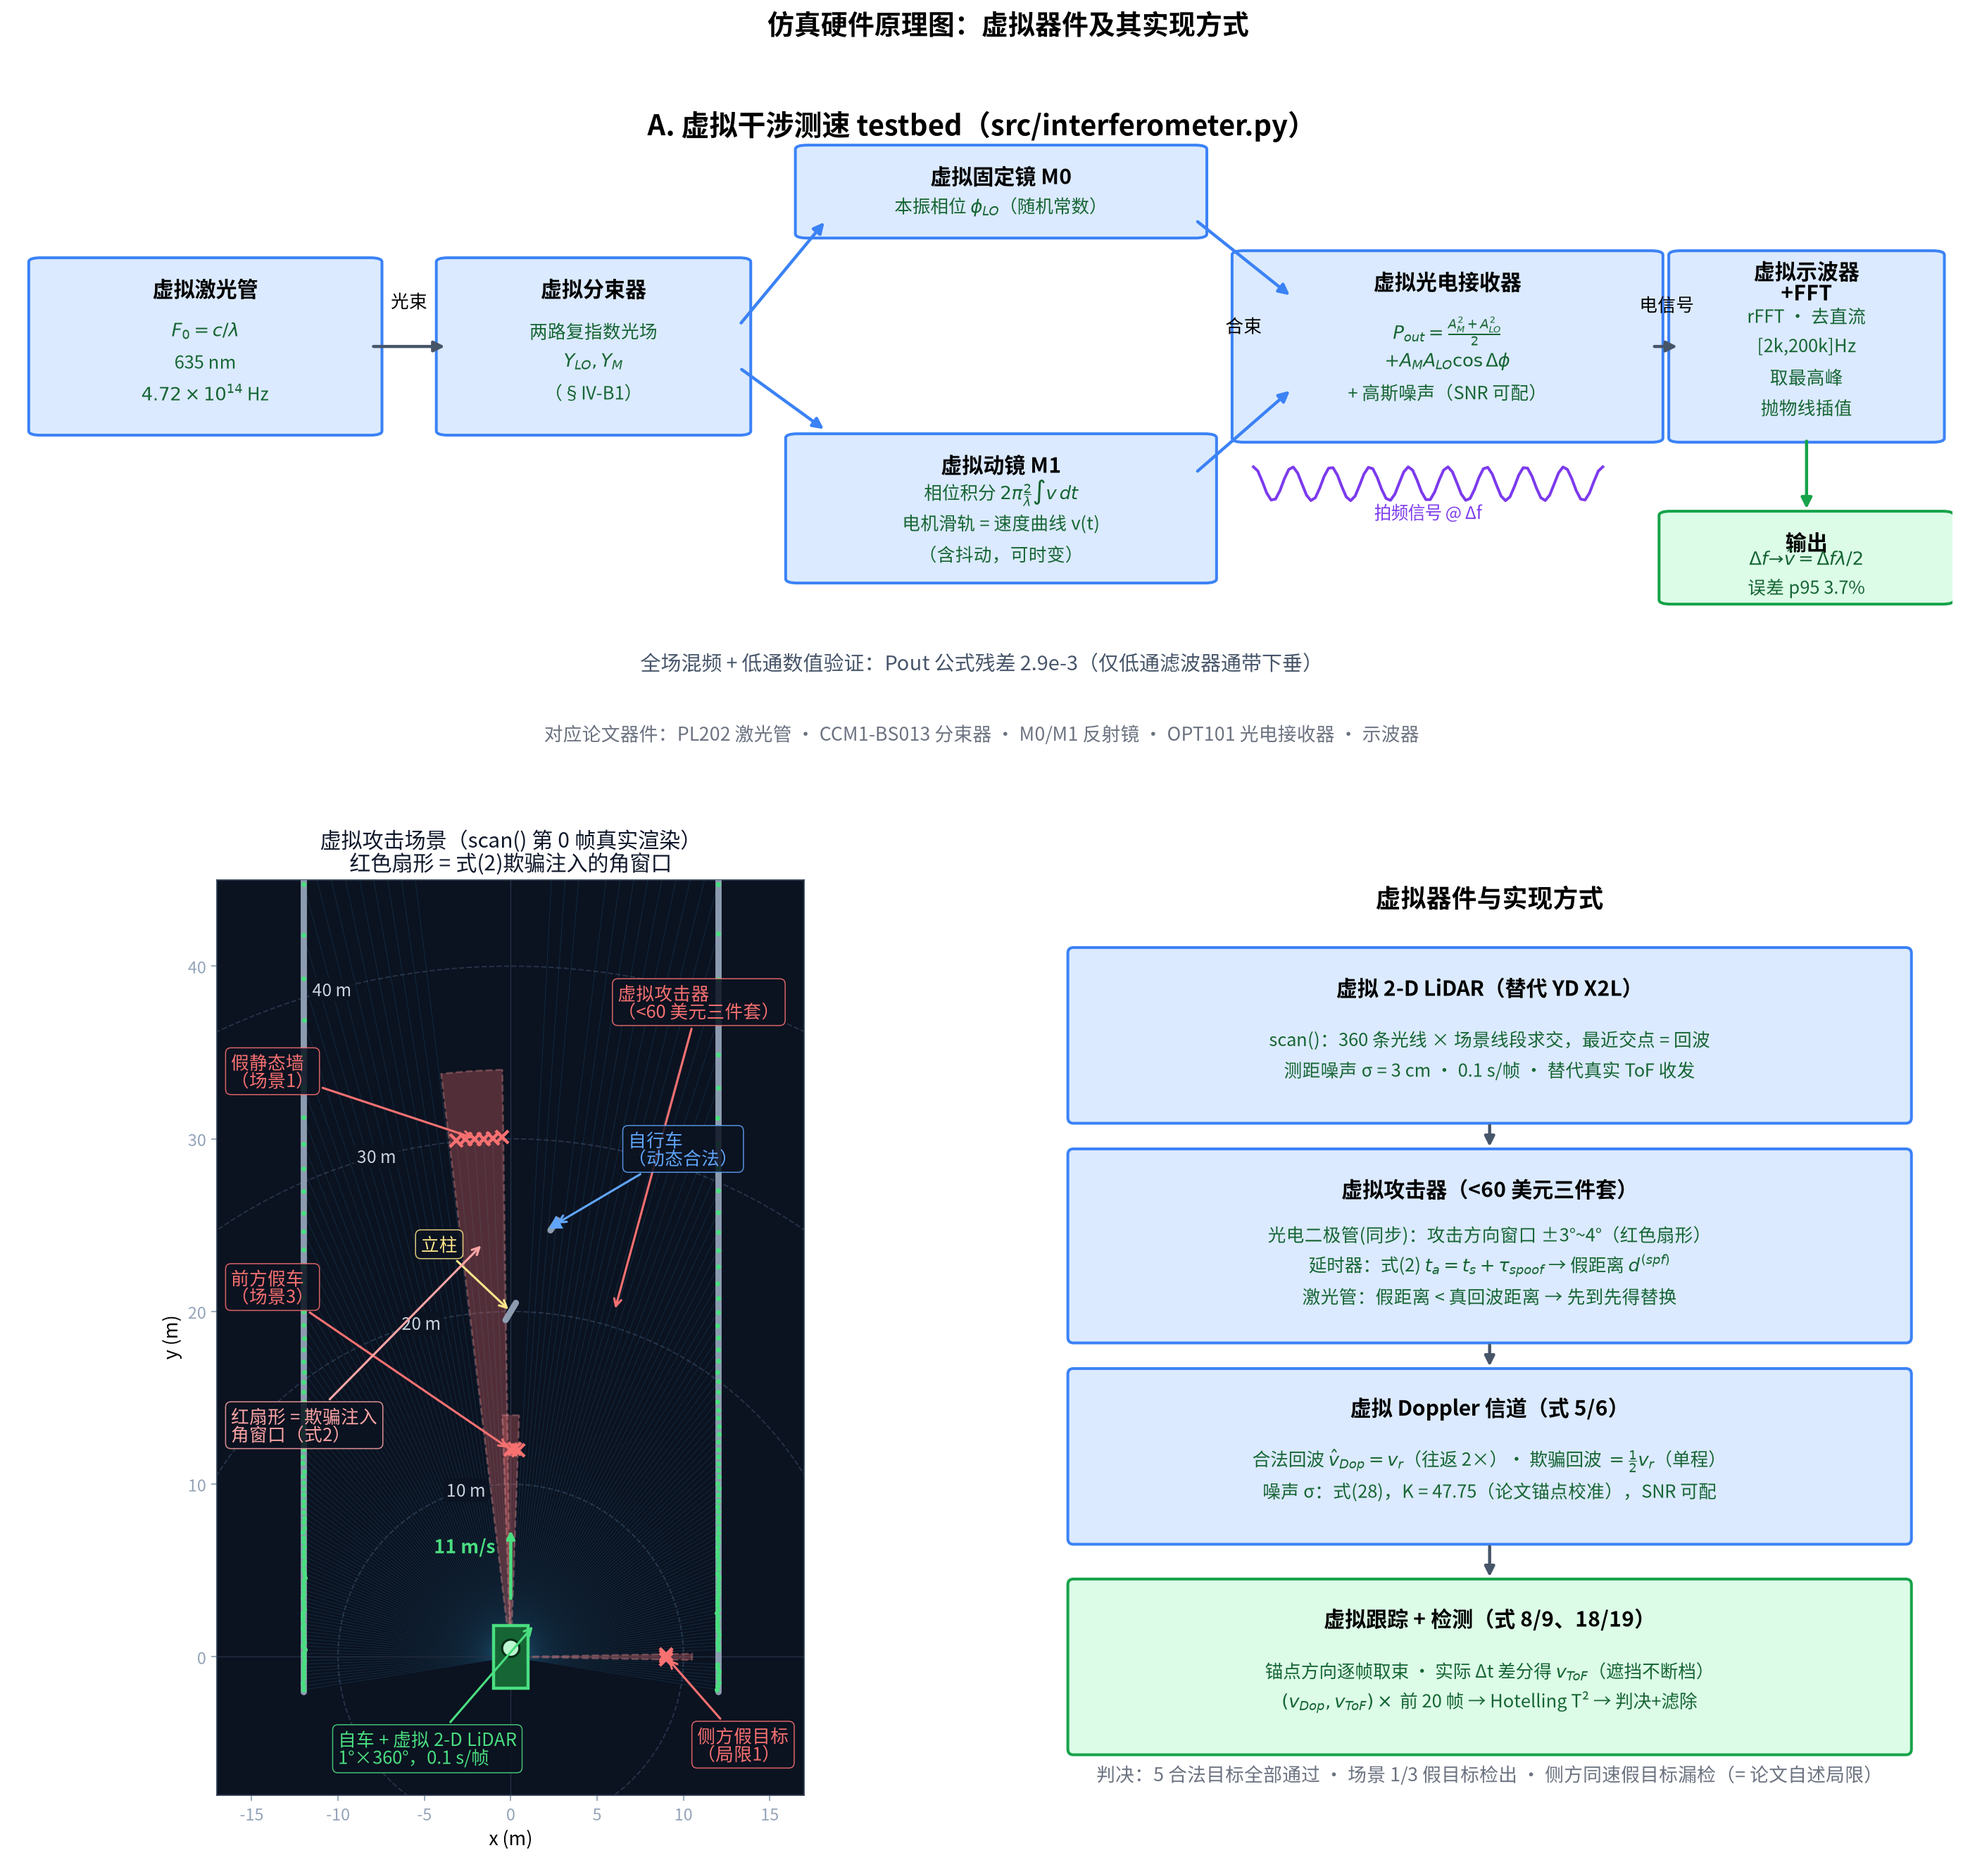
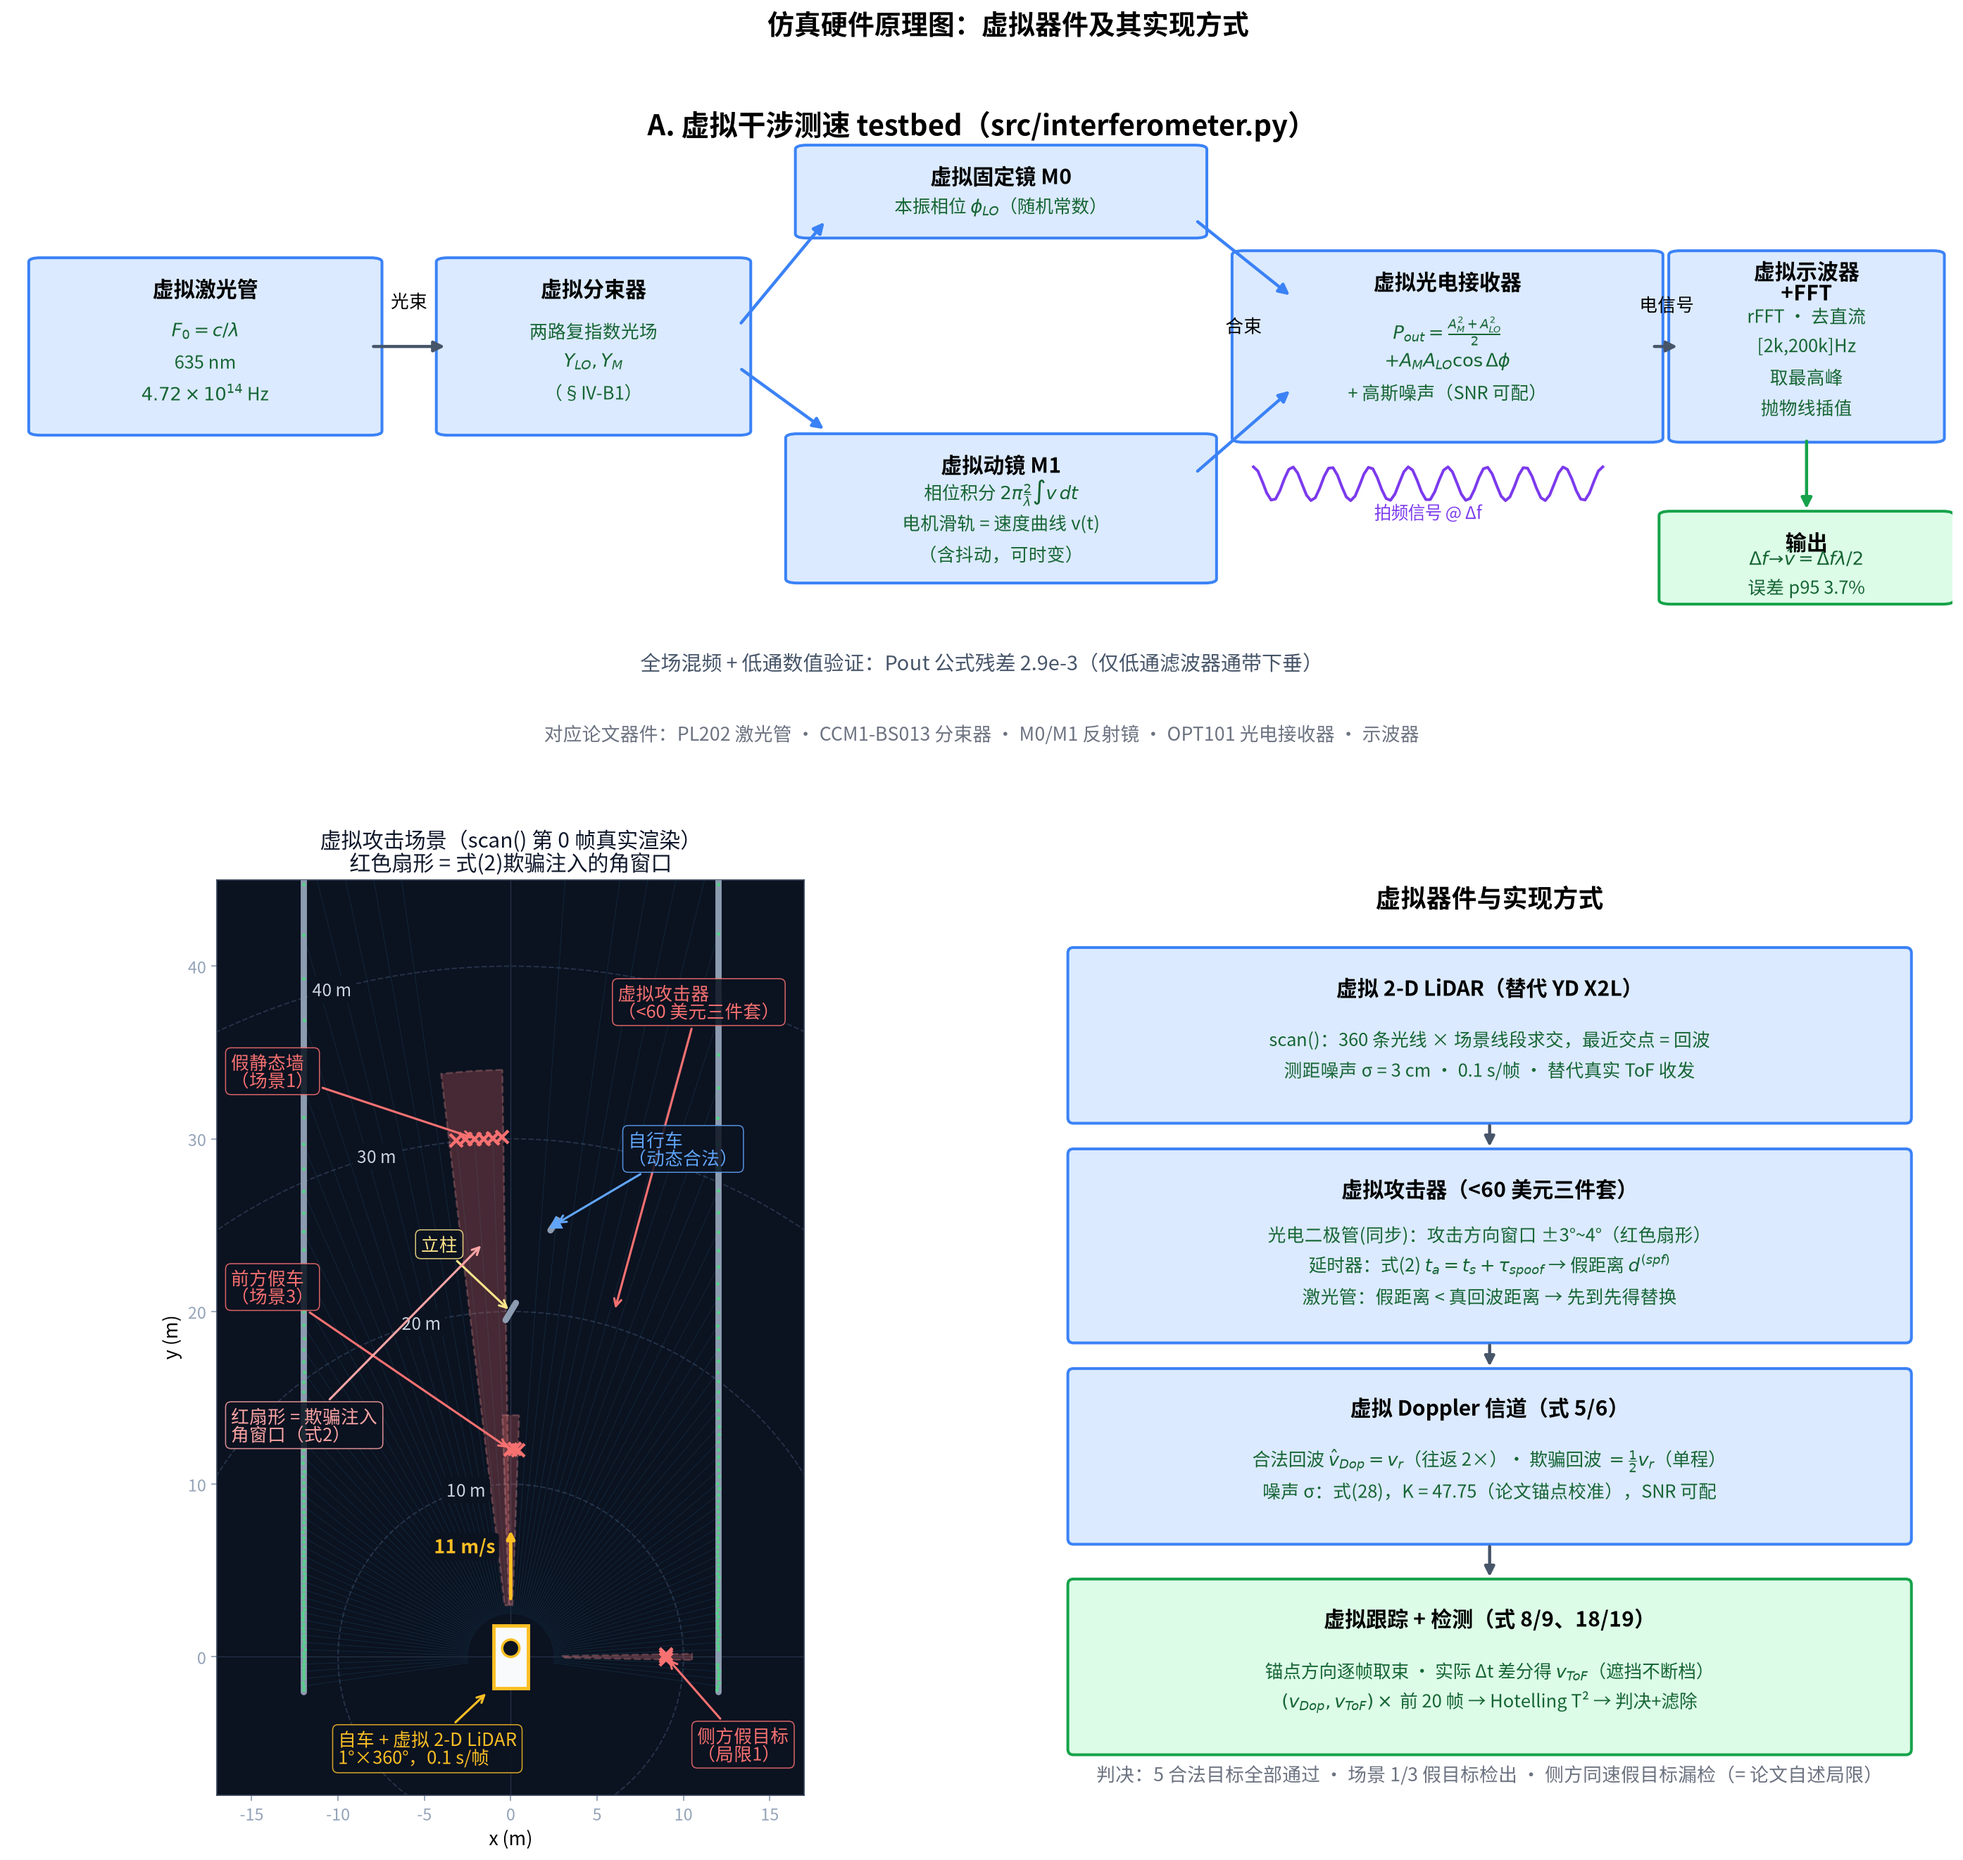
Deep-clean attack-scene figure (quadrant-level inspection fixes)
Issues found by zoomed quadrant inspection and fixed:
- beam fan: draw every 2nd beam starting 2.5 m away from the car (was
  360 dense rays converging on the vehicle = gray curtain)
- ego car recolored white body + amber edge (was green, confused with
  the green wall point-cloud bars); velocity arrow/label amber too,
  label with dark backing
- injection wedges now annular (start 3 m from car) so they no longer
  look like bands growing out of the vehicle
- legit points smaller (ms 2.2, alpha .85) -> clearly discrete dots
- ring labels with near-opaque backing; ego-note leader ends at the
  car's outer corner
- closed-loop figure: same ego styling; README image URLs bumped to
  ?v=8 (camo cache bust)

Changed region(s): [[0.156, 0.807, 0.3121, 0.9621]]

diff --git a/src/hw_mapping.py b/src/hw_mapping.py
@@ -214,10 +214,10 @@ def _draw_car(ax, x, y, heading_deg=90.0):
     from matplotlib.patches import Rectangle, Circle
     import matplotlib.transforms as mtransforms
     tr = mtransforms.Affine2D().rotate_deg(heading_deg - 90).translate(x, y) + ax.transData
-    body = Rectangle((-1.0, -1.8), 2.0, 3.6, fc="#166534", ec="#4ade80",
-                     lw=2.0, transform=tr, zorder=6)
+    body = Rectangle((-1.0, -1.8), 2.0, 3.6, fc="#f8fafc", ec="#fbbf24",
+                     lw=2.2, transform=tr, zorder=6)
     ax.add_patch(body)
-    lidar = Circle((0, 0.5), 0.5, fc="#bbf7d0", ec="#052e16", lw=1.4,
+    lidar = Circle((0, 0.5), 0.5, fc="#0b1220", ec="#fbbf24", lw=1.6,
                    transform=tr, zorder=7)
     ax.add_patch(lidar)
 
@@ -245,8 +245,8 @@ def _draw_virtual_scene(ax_scene):
         ax_scene.text(r * np.cos(np.deg2rad(105)), r * np.sin(np.deg2rad(105)),
                       f"{r} m", fontsize=11, color="#cbd5e1", ha="center",
                       va="center", zorder=9,
-                      bbox=dict(boxstyle="round,pad=0.18", fc=SC_BG,
-                                ec="none", alpha=0.75))
+                      bbox=dict(boxstyle="round,pad=0.25", fc=SC_BG,
+                                ec="none", alpha=0.95))
     ax_scene.axhline(0, color=SC_GRID, lw=0.6)
     ax_scene.axvline(0, color=SC_GRID, lw=0.6)
 
@@ -260,14 +260,16 @@ def _draw_virtual_scene(ax_scene):
     for deg, (d, label, spf, _) in frame.items():
         th = np.deg2rad(deg)
         x, y = d * np.cos(th), d * np.sin(th)
-        ax_scene.plot([0, x], [0, y], color=SC_BEAM, lw=0.45, alpha=0.14,
-                      zorder=1)
+        if deg % 2 == 0:                # 每 2° 画一条光束，减密
+            x0, y0 = 2.5 * np.cos(th), 2.5 * np.sin(th)   # 距车 2.5m 起笔
+            ax_scene.plot([x0, x], [y0, y],
+                          color=SC_BEAM, lw=0.45, alpha=0.12, zorder=1)
         if spf:
             ax_scene.plot(x, y, "x", color=SC_SPOOF, ms=8, mew=2, zorder=5)
         elif label == "bike":
             ax_scene.plot(x, y, "^", color=SC_BIKE, ms=7, zorder=5)
         else:
-            ax_scene.plot(x, y, "o", color=SC_LEGIT, ms=3.2,
+            ax_scene.plot(x, y, "o", color=SC_LEGIT, ms=2.2, alpha=0.85,
                           markeredgecolor="none", zorder=4)
 
     # 三类欺骗注入的攻击窗口扇形（红色）
@@ -281,15 +283,17 @@ def _draw_virtual_scene(ax_scene):
     ]
     for center_deg, halfw, r, lab in wedges:
         w = Wedge((0, 0), r, center_deg - halfw, center_deg + halfw,
-                  fc=SC_SPOOF, alpha=0.30, ec="#fca5a5", lw=1.2, ls="--", zorder=2)
+                  width=r - 3.0,   # 环形：距车 3m 起，避免与车身粘连
+                  fc=SC_SPOOF, alpha=0.25, ec="#fca5a5", lw=1.2, ls="--", zorder=2)
         ax_scene.add_patch(w)
 
     # 自车（车形 + LiDAR + 速度矢量）
     _draw_car(ax_scene, 0, 0)
     ax_scene.annotate("", xy=(0, 7.5), xytext=(0, 3.2),
-                      arrowprops=dict(arrowstyle="-|>", color="#4ade80", lw=2))
-    ax_scene.text(-0.9, 6.0, "11 m/s", fontsize=12, color="#4ade80",
-                  weight="bold", ha="right", zorder=9)
+                      arrowprops=dict(arrowstyle="-|>", color="#fbbf24", lw=2.2))
+    ax_scene.text(-0.9, 6.0, "11 m/s", fontsize=12, color="#fbbf24",
+                  weight="bold", ha="right", zorder=9,
+                  bbox=dict(boxstyle="round,pad=0.2", fc=SC_BG, ec="none"))
 
     # 标注
     def note(text, xy, xytext, color):
@@ -299,8 +303,8 @@ def _draw_virtual_scene(ax_scene):
                           bbox=dict(boxstyle="round,pad=0.3", fc=SC_BG,
                                     ec=color, lw=0.7, alpha=0.85))
 
-    note("自车 + 虚拟 2-D LiDAR\n1°×360°，0.1 s/帧", (1.4, 1.9), (-10, -6.2),
-         "#4ade80")
+    note("自车 + 虚拟 2-D LiDAR\n1°×360°，0.1 s/帧", (-1.3, -2.0), (-10, -6.2),
+         "#fbbf24")
     note("虚拟攻击器\n（<60 美元三件套）",
          tuple(attacks["ahead"]["attacker"]), (6.2, 37), "#f87171")
     note("假静态墙\n（场景1）", tuple(attacks["static"]["pos"]), (-16.2, 33),

diff --git a/src/simulator.py b/src/simulator.py
@@ -268,7 +268,7 @@ def plot_closed_loop(results, scans, out_path, scan_idx=10):
             elif label == "bike":
                 ax.plot(x, y, "^", color=BIKE, ms=7)
             else:
-                ax.plot(x, y, "o", color=LEGIT, ms=3.4,
+                ax.plot(x, y, "o", color=LEGIT, ms=2.6, alpha=0.85,
                         markeredgecolor="none")
         if filtered:
             miss_xy = (ego_xy[0] + 9.0, ego_xy[1])
@@ -282,10 +282,10 @@ def plot_closed_loop(results, scans, out_path, scan_idx=10):
         tr = (mtransforms.Affine2D().rotate_deg(0).translate(*ego_xy)
               + ax.transData)
         ax.add_patch(Rectangle((ego_xy[0] - 1.0, ego_xy[1] - 1.8), 2.0, 3.6,
-                               fc="#166534", ec=LEGIT, lw=2, transform=tr,
+                               fc="#f8fafc", ec="#fbbf24", lw=2.2, transform=tr,
                                zorder=6))
-        ax.add_patch(Circle((ego_xy[0], ego_xy[1] + 0.5), 0.5, fc="#bbf7d0",
-                            ec="#052e16", lw=1.4, zorder=7))
+        ax.add_patch(Circle((ego_xy[0], ego_xy[1] + 0.5), 0.5, fc="#0b1220",
+                            ec="#fbbf24", lw=1.6, zorder=7))
         ax.set_title(title, fontsize=14)
         ax.set_xlabel("x (m)", fontsize=12.5)
         ax.set_aspect("equal")
@@ -300,8 +300,8 @@ def plot_closed_loop(results, scans, out_path, scan_idx=10):
                    label="自行车（动态合法）"),
         plt.Line2D([], [], marker="o", ls="", color=LEGIT, ms=6,
                    label="合法静态点云"),
-        plt.Line2D([], [], marker="s", ls="", color="#4ade80", ms=10,
-                   markeredgecolor="#052e16", markeredgewidth=1.5,
+        plt.Line2D([], [], marker="s", ls="", color="#fbbf24", ms=10,
+                   markeredgecolor="#78350f", markeredgewidth=1.5,
                    label="自车 + LiDAR"),
     ]
     fig.legend(handles=handles, fontsize=12, loc="lower center", ncol=4,

diff --git a/README.md b/README.md
@@ -44,26 +44,26 @@ results are computer-simulation based (§VII-B), so this reproduction is faithfu
 
 面板 A —— 干涉 testbed（Fig.6/7）的映射：
 
-![HW-SW mapping: interferometer](figures/fig_map_interferometer.png?v=7)
+![HW-SW mapping: interferometer](figures/fig_map_interferometer.png?v=8)
 
 面板 B —— 实机攻击演示（Fig.2/3/4）的映射：
 
-![HW-SW mapping: attack demo](figures/fig_map_attack.png?v=7)
+![HW-SW mapping: attack demo](figures/fig_map_attack.png?v=8)
 
 **仿真硬件原理图**（虚拟器件 + 每个器件框内直接标注实现公式/函数）。拆为三张单图便于阅读；
 组合版 `figures/fig_virtual_testbed.png`、`figures/fig_hw_mapping.png` 适合放进汇报 PPT：
 
 ① 虚拟干涉 testbed 器件链（框内 = 实现公式）：
 
-![Virtual interferometer](figures/fig_virtual_interferometer.png?v=7)
+![Virtual interferometer](figures/fig_virtual_interferometer.png?v=8)
 
 ② 虚拟攻击场景（`scan()` 第 0 帧真实渲染：光束、点云、攻击器与三类假目标）：
 
-![Virtual attack scene](figures/fig_virtual_scene.png?v=7)
+![Virtual attack scene](figures/fig_virtual_scene.png?v=8)
 
 ③ 虚拟器件实现方式（LiDAR / 攻击器 / Doppler 信道 / 跟踪+检测）：
 
-![Virtual device implementations](figures/fig_virtual_impl.png?v=7)
+![Virtual device implementations](figures/fig_virtual_impl.png?v=8)
 
 器件级明细：
 
@@ -98,20 +98,20 @@ python3 run_all.py --quick   # 快速冒烟，约 40 秒
 同一攻击者速度在两个速度不同的 LiDAR 处诱导出不同的 Doppler 速度；当两 LiDAR 速度相同（子图 d）
 时差恒为 0——与论文结论一致：协同检测要求参与 LiDAR 速度不同。
 
-![Fig.11 reproduction](figures/fig11.png?v=7)
+![Fig.11 reproduction](figures/fig11.png?v=8)
 
 ### 2. Fig.13 — 最小样本量 vs 欺骗比例（SNR=1e-4）
 
 欺骗比例 p 越小，所需样本量越大，**p < 0.4 后急剧上升**（city：p=0.1 需 50 个样本，
 p≥0.6 仅需 4 个）——复现论文正文对该图的关键描述。
 
-![Fig.13 reproduction](figures/fig13.png?v=7)
+![Fig.13 reproduction](figures/fig13.png?v=8)
 
 ### 3. Fig.14 — 最小样本量 vs SNR（p=0.1，log-log）
 
 SNR 每降一个数量级，所需样本量约 ×10（city：51 → 477 → 4634），近似 n ∝ 1/SNR。
 
-![Fig.14 reproduction](figures/fig14.png?v=7)
+![Fig.14 reproduction](figures/fig14.png?v=8)
 
 ### 4. 与论文数值对照
 
@@ -140,7 +140,7 @@ SNR 每降一个数量级，所需样本量约 ×10（city：51 → 477 → 4634
 噪声用式(28)校准模型）→ 目标级跟踪配对 (v_Dop, v_ToF) → 用式(18)(19)的 T² 检测器逐目标判决
 → 滤除被判欺骗的轨迹。左图为攻击中点云（红色 × 为注入的假点），右图为检测滤除后：
 
-![Closed-loop simulation](figures/fig_closed_loop.png?v=7)
+![Closed-loop simulation](figures/fig_closed_loop.png?v=8)
 
 判决结果（多随机种子稳定）：
 
@@ -164,7 +164,7 @@ SNR 每降一个数量级，所需样本量约 ×10（city：51 → 477 → 4634
 论文用 ThorLabs 光学干涉 testbed 证明"能从激光信号提取多普勒频移"。其信号模型
 （§IV-B1 的 YLO/YM/Pout 公式）已完整给出，故无需硬件即可定量复现：
 
-![Interferometer simulation](figures/fig_interferometer.png?v=7)
+![Interferometer simulation](figures/fig_interferometer.png?v=8)
 
 | 项目 | 论文 | 本仿真 | 状态 |
 |---|---|---|---|
